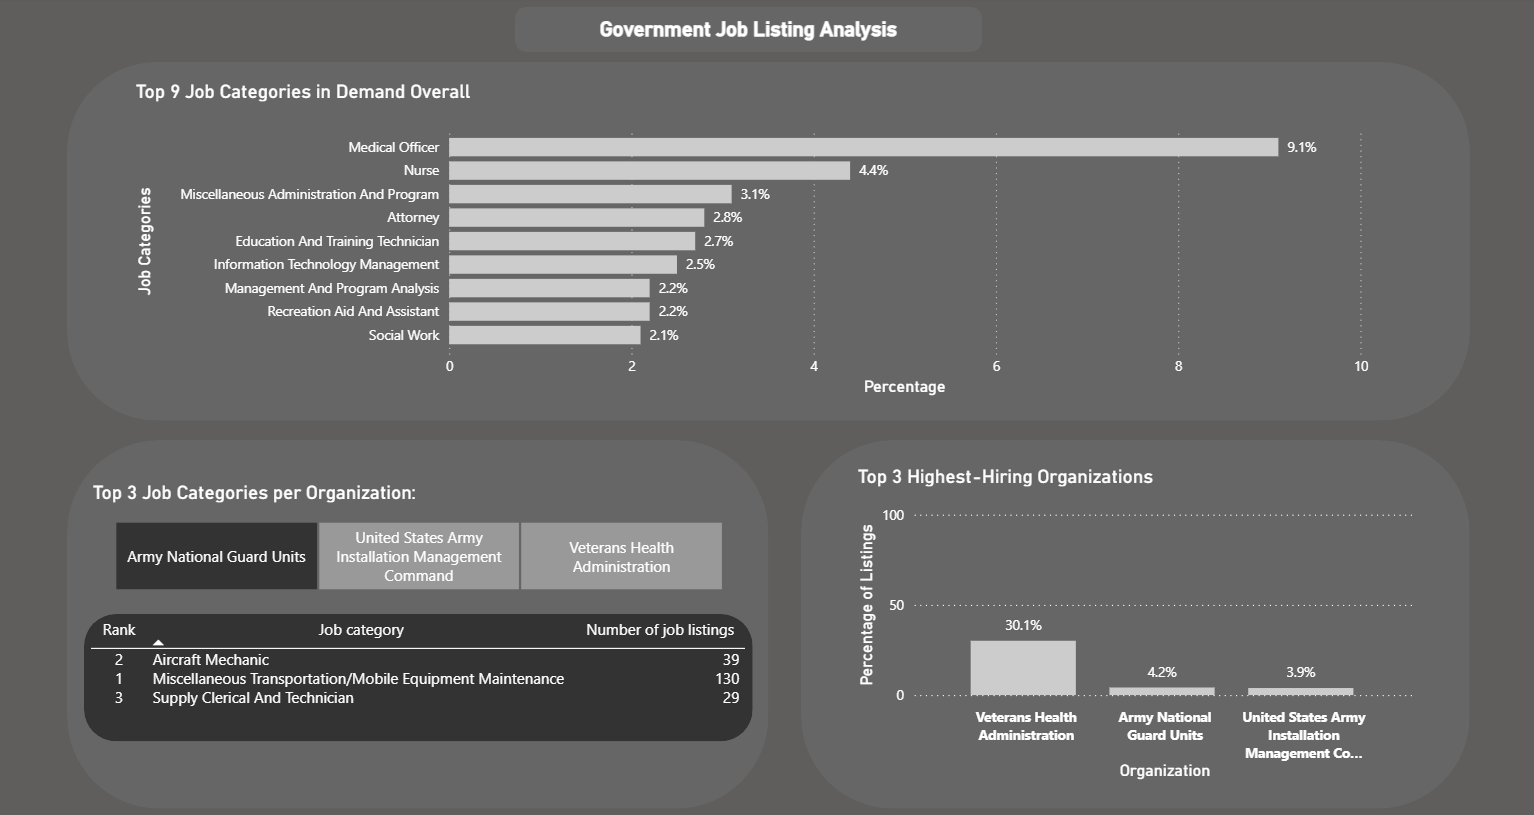
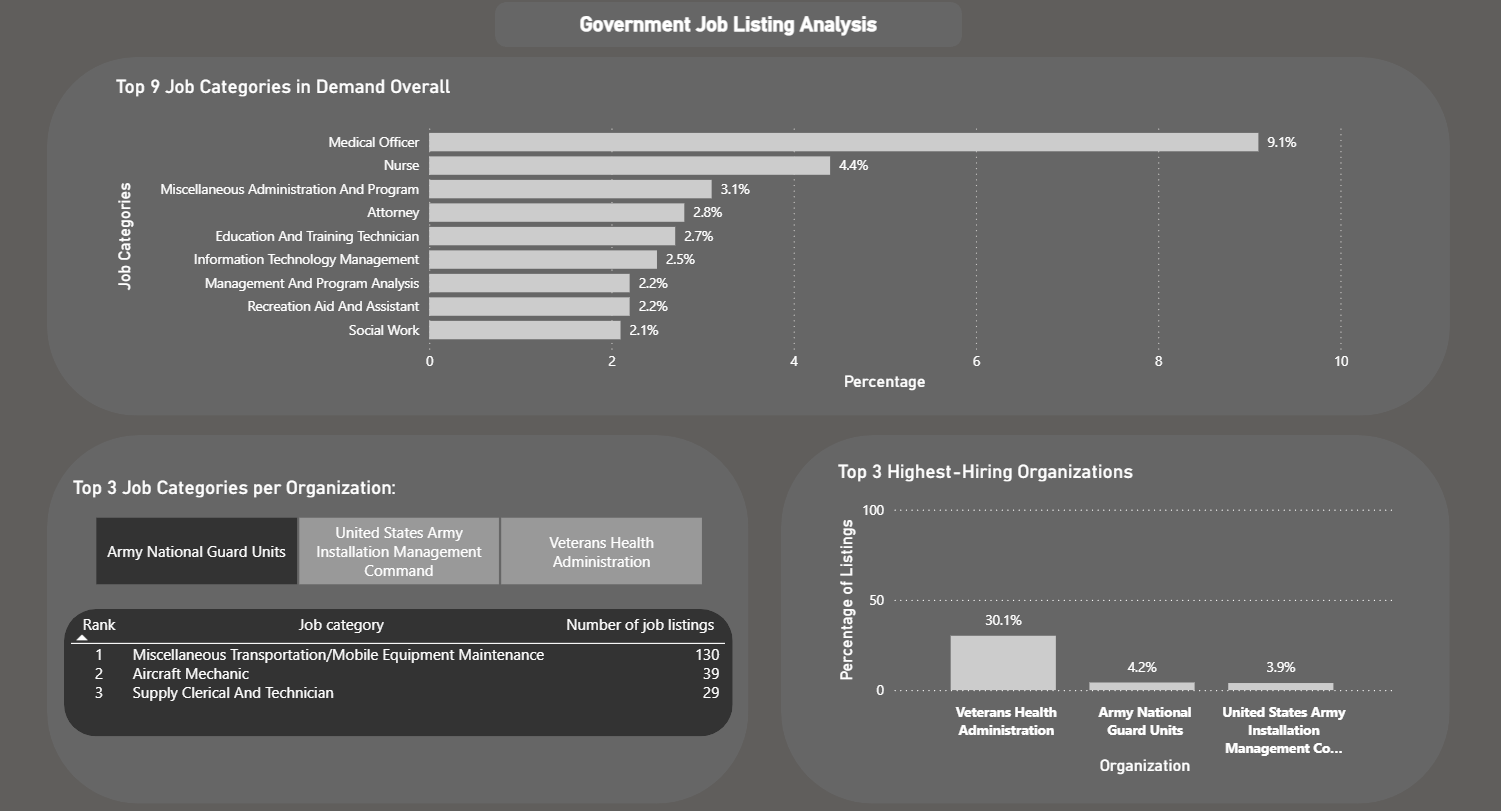
Updated README

diff --git a/README.md b/README.md
@@ -4,9 +4,7 @@ This project demonstrates an end-to-end data pipeline, built to analyze current 
 
 The pipeline extracts all available federal job postings, cleans and transforms the data, and loads it into a normalized PostgreSQL database built with a star schema. The entire pipeline is orchestrated end-to-end with Apache Airflow, running in Docker. It runs on a daily schedule (every morning at 8:00 AM PST), detects and loads only new listings (no duplicates on repeat runs), and handles real-world data engineering challenges, including API pagination, NULL/missing field handling, and reliable task orchestration with retry logic.
 
-**The key business question this pipeline is designed to answer is:** 
-
-This README is organized in two parts. The first half walks through my thought process behind the key decisions I made when constructing the pipeline, along with several implementations that reflect real-world data engineering problem-solving. The second half walks through the analytical work done to answer the business question above, using SQL views queried from PostgreSQL and visualized in Power BI.
+This README is organized in two parts. The first half walks through my thought process behind the key decisions I made when constructing the pipeline, along with several implementations that reflect real-world data engineering problem-solving. The second half walks through the analytical work and key insights found from the main analytical question proposed in part 2, using SQL views queried from PostgreSQL and visualized in Power BI.
 
 ---
 
@@ -113,7 +111,7 @@ real value to stakeholders. Specifically, I believe this dataset can help job
 seekers and career changers understand what types of roles government agencies 
 are currently hiring for.
 
-**The main question I analyzed:** "Which government agencies hire the most, what 
+**The central analytical question this project addresses is:** "Which government agencies hire the most, what 
 career paths do they mainly support, and is that concentration unique to them 
 or reflective of federal hiring overall?"
 
@@ -121,7 +119,7 @@ This analysis aims to give job seekers a clearer view of which agencies are hiri
 actively, what career paths those agencies primarily support, and whether that 
 pattern is agency-specific or representative of federal hiring more broadly.
 
-**Final Recommendation:** My final recommendation will answer which career fields/paths may benefit 
+I will also provide a final recommendation which will answer which career fields/paths may benefit 
 from pursuing government job opportunities, and which fields appear underserved federally and may be 
 better pursued in the private sector.
 
@@ -141,14 +139,26 @@ Guard Units, and United States Army Installation Management Command.
 ## 2. Within each of those top 3 agencies, what are their top 3 career paths/job categories?
 
 ![VHA Top Categories](screenshots/PowerBI/top_3_categories_1.PNG)
+
+- Veterans Health Administration: 
+    - Medical Officer 
+    - Nurse 
+    - Social Work
+
 ![Army NG Top Categories](screenshots/PowerBI/top_3_categories_2.PNG)
+
+- Army National Guard Units: 
+    - Transportation/Mobile Equipment Maintenance
+    - Aircraft Mechanic 
+    - Supply Clerical And Technician
+
+
 ![Army IMC Top Categories](screenshots/PowerBI/top_3_categories_3.PNG)
 
-- Veterans Health Administration: Medical Officer, Nurse, Social Work
-- Army National Guard Units: Transportation/Mobile Equipment Maintenance, Aircraft Mechanic, Supply 
-Clerical And Technician
-- United States Army Installation Management Command: Education And Training Technician, Recreation 
-Aid And Assistant, Cooking
+- United States Army Installation Management Command: 
+    - Education And Training Technician
+    - Recreation 
+    - Aid And Assistant, Cooking
 
 ---
 
@@ -163,3 +173,11 @@ maintenance) do not appear in the overall top 9, indicating this agency's hiring
 specialized and agency-specific rather than reflective of federal hiring as a whole.
 
 ---
+
+## Dashboard Overview
+
+![Full Dashboard](screenshots/PowerBI/entire_dashboard.PNG)
+
+---
+
+# Final Reccomendation 
